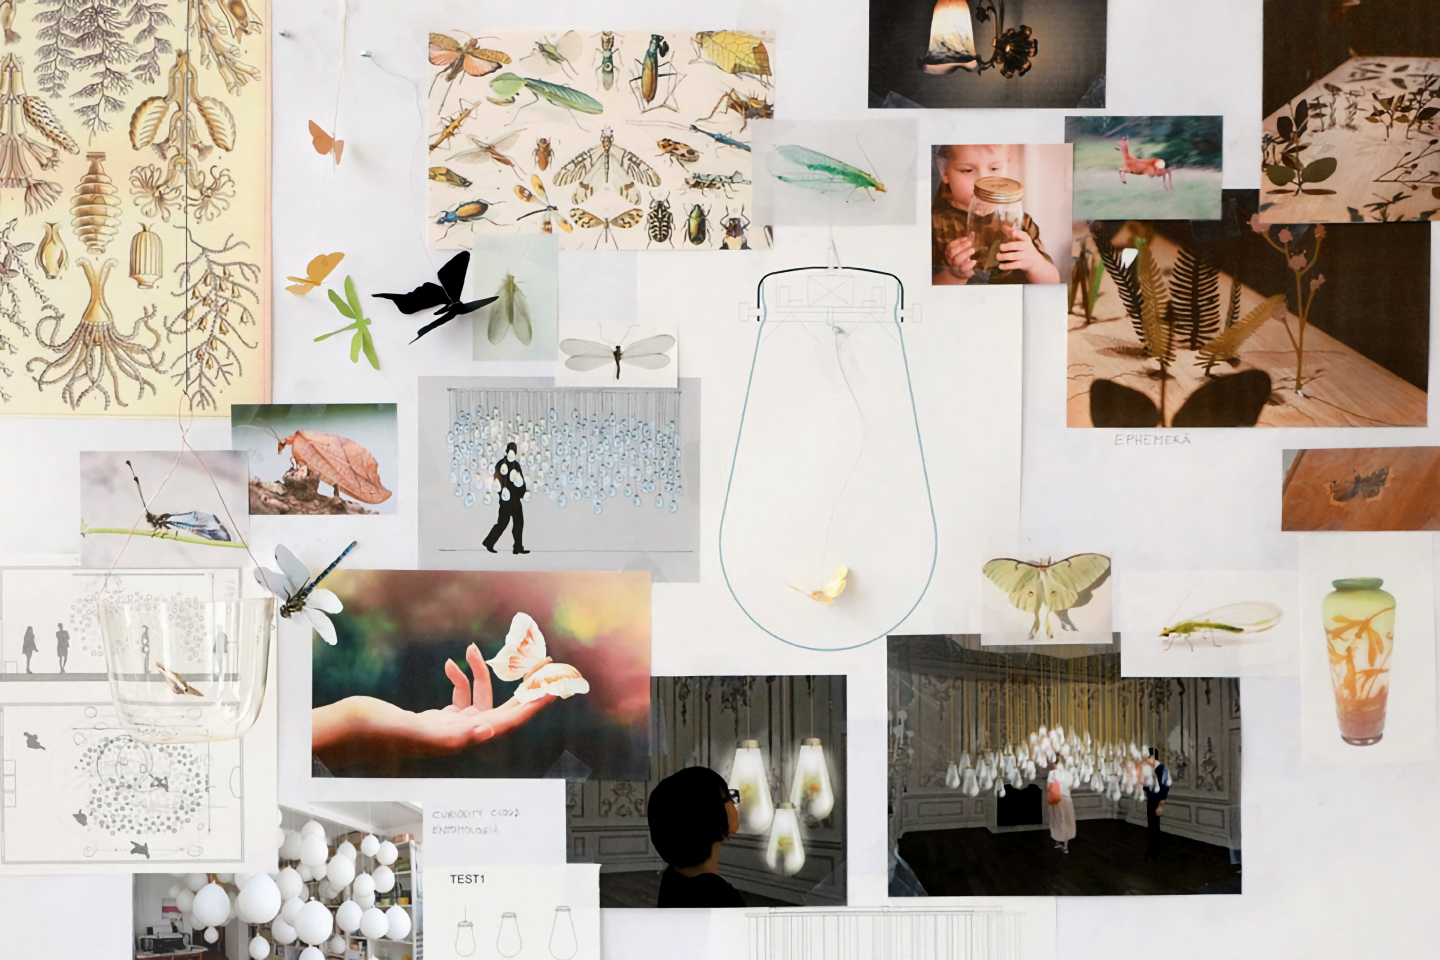
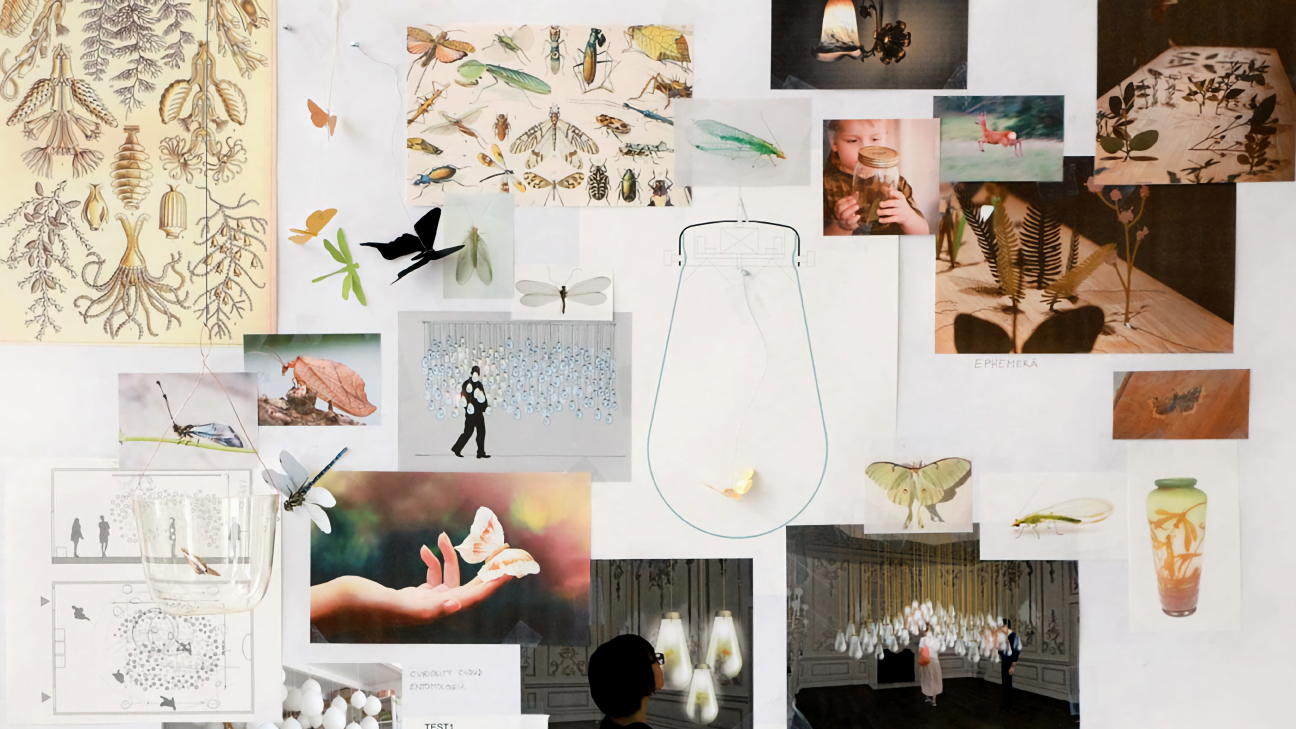
updated slideshow images

diff --git a/src/components/index/SlideShow.jsx b/src/components/index/SlideShow.jsx
@@ -5,7 +5,7 @@ const MILLISECONDS_PER_SLIDE = 8000
 
 const Template = () => (
   <div className="flex flex-col">
-    <div className="aspect-[3/2] w-full"></div>
+    <div className="aspect-[16/9] w-full"></div>
     <div className="h-24 mt-8"></div>
   </div>
 )
@@ -14,7 +14,7 @@ const Figure = ({ title, imgSrc, sourceUrl, active }) => (
   <figure
     className={joinClasses(
       "flex flex-col absolute top-0 right-0 bottom-0 left-0 ease-linear duration-500",
-      active ? "opacity-0 pointer-events-none" : "opacity-1"
+      active ? "opacity-1" : "opacity-0 pointer-events-none"
     )}
   >
     <img src={imgSrc} alt={title} />
